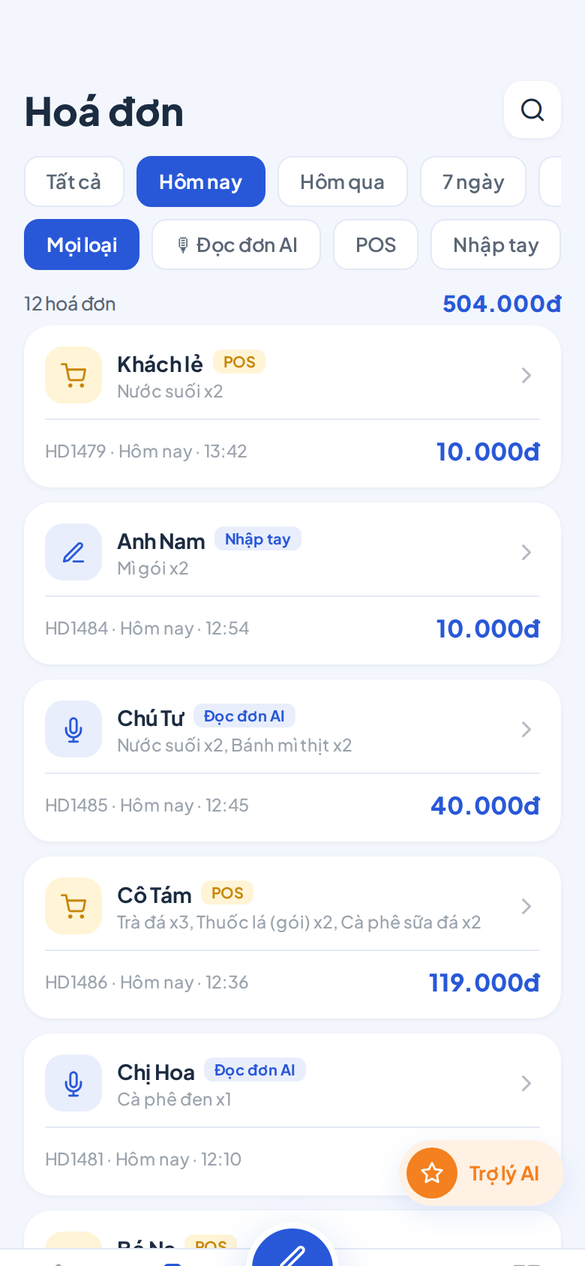
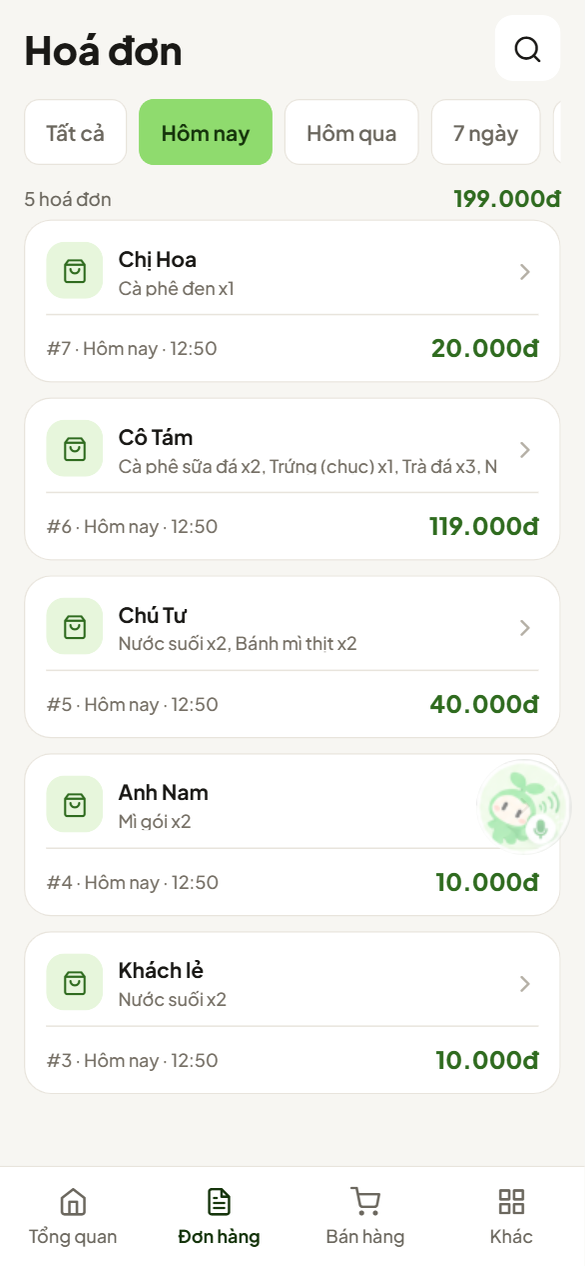
fix(web): update stale showcase screenshots and surface the slogan
The 4 phone screenshots in the Showcase section still showed the old
blue UI from before mobile's green re-theme. Recaptured all four live
against the real Core backend (Tổng quan, Bán hàng bằng giọng nói, Hoá
đơn, Hàng hoá & tồn kho) so they match the current app.

Also move "Miệng nói, sổ ghi." into the hero eyebrow pill — it was only
in the <title> and footer tagline before, easy to miss at a glance.

diff --git a/frontend/web/src/pages/landing/LandingPage.tsx b/frontend/web/src/pages/landing/LandingPage.tsx
@@ -179,7 +179,7 @@ function Hero() {
       <div className="lp-container lp-hero-grid">
         <div className="lp-hero-copy">
           <span className="lp-eyebrow">
-            <i className="pulse-dot" /> Sổ bán hàng AI cho quán nhỏ
+            <i className="pulse-dot" /> Miệng nói, sổ ghi.
           </span>
           <h1>
             Nói là <span className="hl">ghi sổ</span>.
